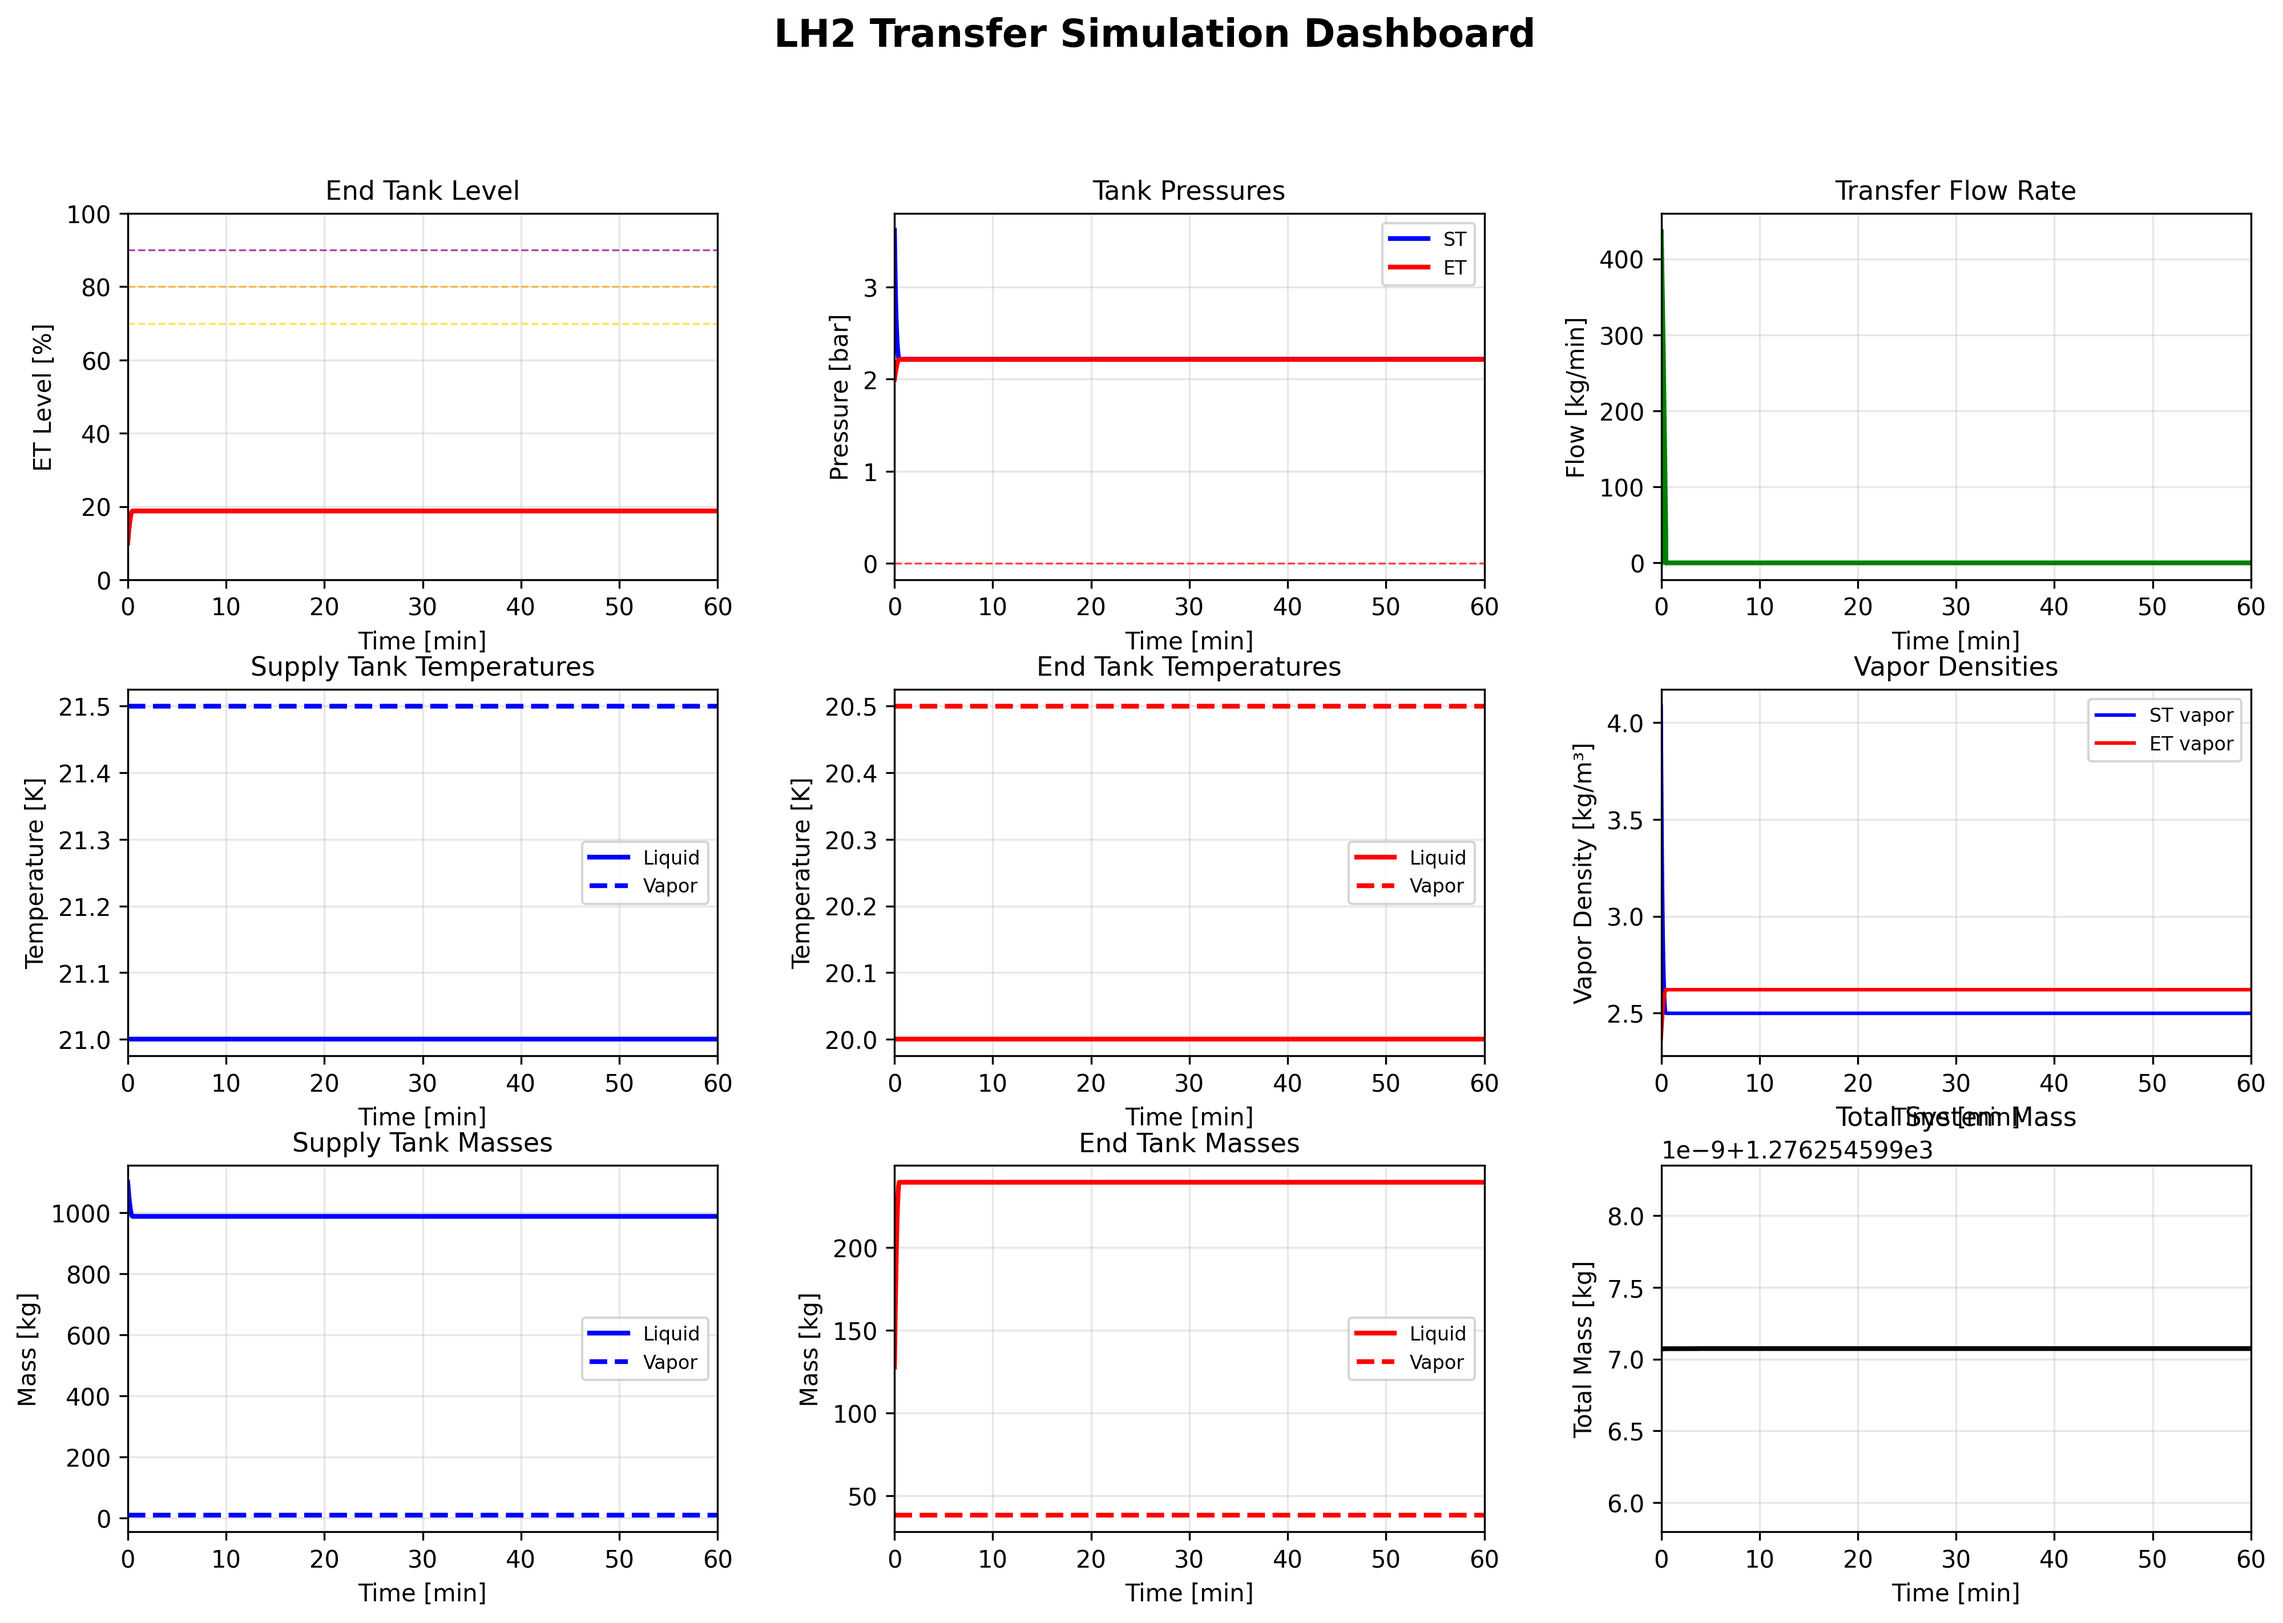
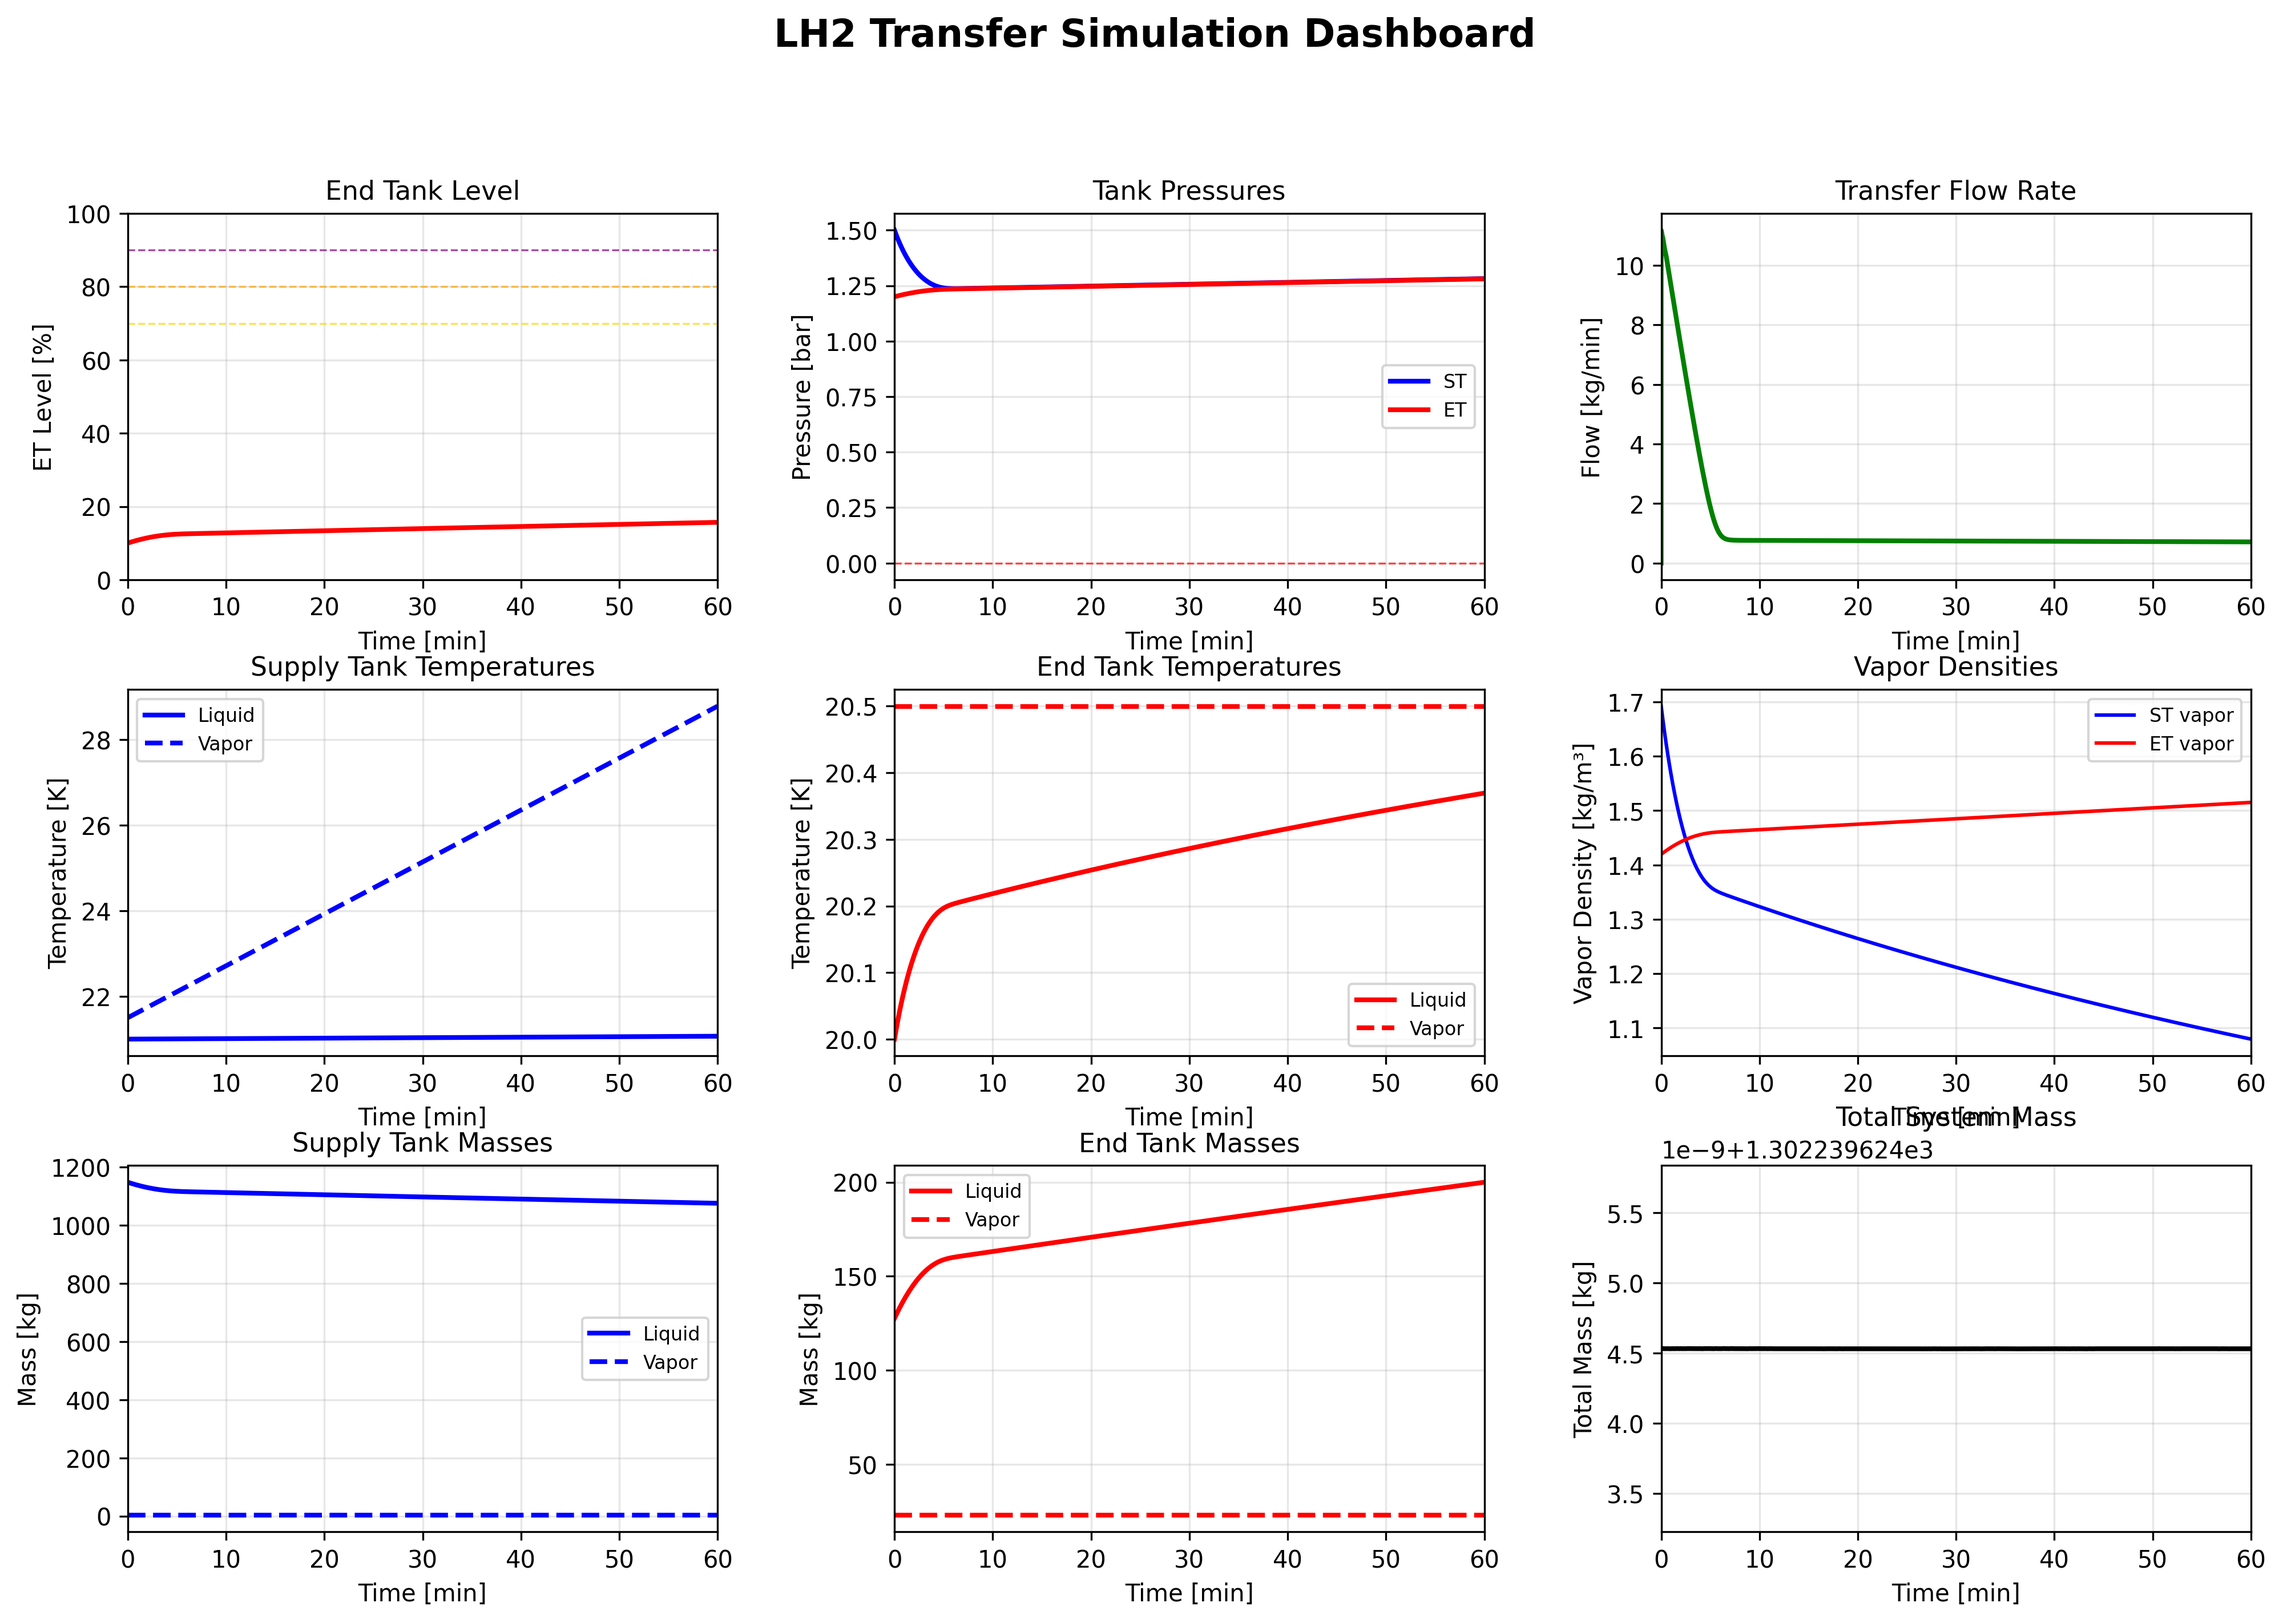
Fix AttributeError and simulation dynamics issues

diff --git a/lh2sim/simulation/__init__.py b/lh2sim/simulation/__init__.py
@@ -221,8 +221,8 @@ class Simulator:
         T_v_supply = self.config.supply_tank.initial_vapor_temp
         p_supply = self.config.supply_tank.initial_pressure
         
-        # Get densities at specified pressure
-        rho_L_supply = self.properties.density(T_L_supply, p_supply)
+        # Get densities - use constant values for consistency with derivatives
+        rho_L_supply = self.config.physics.rho_liquid
         # For vapor, use ideal gas law to be consistent with derivative calculation
         rho_v_supply = p_supply / (self.config.physics.R_vapor * T_v_supply)
         
@@ -247,8 +247,8 @@ class Simulator:
         T_v_receiver = self.config.receiver_tank.initial_vapor_temp
         p_receiver = self.config.receiver_tank.initial_pressure
         
-        # Get densities at specified pressure
-        rho_L_receiver = self.properties.density(T_L_receiver, p_receiver)
+        # Get densities - use constant values for consistency
+        rho_L_receiver = self.config.physics.rho_liquid
         # For vapor, use ideal gas law to be consistent
         rho_v_receiver = p_receiver / (self.config.physics.R_vapor * T_v_receiver)
         
@@ -302,9 +302,17 @@ class Simulator:
         V_L_supply = state.m_L_supply / self.config.physics.rho_liquid if state.m_L_supply > 0 else 0
         V_v_supply = V_supply - V_L_supply
         
-        # Approximate temperatures from internal energies (simplified)
-        T_L_supply = self.config.supply_tank.initial_liquid_temp
-        T_v_supply = self.config.supply_tank.initial_vapor_temp
+        # Approximate temperatures from internal energies
+        # T = U / (m * c_p) for simplified energy balance
+        if state.m_L_supply > 1e-6:
+            T_L_supply = state.U_L_supply / (state.m_L_supply * self.config.physics.c_liquid)
+        else:
+            T_L_supply = self.config.supply_tank.initial_liquid_temp
+            
+        if state.m_v_supply > 1e-6:
+            T_v_supply = state.U_v_supply / (state.m_v_supply * self.config.physics.c_v_vapor)
+        else:
+            T_v_supply = self.config.supply_tank.initial_vapor_temp
         
         # Approximate pressures (simplified - use ideal gas for vapor)
         if V_v_supply > 1e-6:
@@ -317,8 +325,15 @@ class Simulator:
         V_L_receiver = state.m_L_receiver / self.config.physics.rho_liquid if state.m_L_receiver > 0 else 0
         V_v_receiver = V_receiver - V_L_receiver
         
-        T_L_receiver = self.config.receiver_tank.initial_liquid_temp
-        T_v_receiver = self.config.receiver_tank.initial_vapor_temp
+        if state.m_L_receiver > 1e-6:
+            T_L_receiver = state.U_L_receiver / (state.m_L_receiver * self.config.physics.c_liquid)
+        else:
+            T_L_receiver = self.config.receiver_tank.initial_liquid_temp
+            
+        if state.m_v_receiver > 1e-6:
+            T_v_receiver = state.U_v_receiver / (state.m_v_receiver * self.config.physics.c_v_vapor)
+        else:
+            T_v_receiver = self.config.receiver_tank.initial_vapor_temp
         
         if V_v_receiver > 1e-6:
             p_receiver = state.m_v_receiver * self.config.physics.R_vapor * T_v_receiver / V_v_receiver
@@ -376,12 +391,17 @@ class Simulator:
         dm_L_receiver_dt = mdot_transfer  # Gains liquid
         dm_v_receiver_dt = 0.0  # Simplified - no phase change
         
-        # Energy balance derivatives (simplified - using specific energy)
+        # Energy balance derivatives with heat leaks
+        # Transfer term: specific internal energy of liquid being transferred
         u_transfer = self.config.physics.c_liquid * T_L_supply
-        dU_L_supply_dt = -mdot_transfer * u_transfer
-        dU_v_supply_dt = 0.0
-        dU_L_receiver_dt = mdot_transfer * u_transfer
-        dU_v_receiver_dt = 0.0
+        
+        # Supply tank energy balance
+        dU_L_supply_dt = -mdot_transfer * u_transfer + self.config.supply_tank.heat_leak_liquid
+        dU_v_supply_dt = self.config.supply_tank.heat_leak_vapor
+        
+        # Receiver tank energy balance
+        dU_L_receiver_dt = mdot_transfer * u_transfer + self.config.receiver_tank.heat_leak_liquid
+        dU_v_receiver_dt = self.config.receiver_tank.heat_leak_vapor
         
         # Return derivatives
         return np.array([
@@ -485,11 +505,34 @@ class Simulator:
         V_L_ET = result.m_L_ET / self.config.physics.rho_liquid
         V_v_ET = V_receiver - V_L_ET
         
-        # Simplified temperatures (constant for this version)
-        result.T_L_ST = np.full(n_points, self.config.supply_tank.initial_liquid_temp)
-        result.T_v_ST = np.full(n_points, self.config.supply_tank.initial_vapor_temp)
-        result.T_L_ET = np.full(n_points, self.config.receiver_tank.initial_liquid_temp)
-        result.T_v_ET = np.full(n_points, self.config.receiver_tank.initial_vapor_temp)
+        # Extract internal energy time series
+        U_L_ST = result.states[4, :]
+        U_v_ST = result.states[5, :]
+        U_L_ET = result.states[6, :]
+        U_v_ET = result.states[7, :]
+        
+        # Compute temperatures from internal energies
+        # T = U / (m * c_p)
+        result.T_L_ST = np.where(
+            result.m_L_ST > 1e-6,
+            U_L_ST / (result.m_L_ST * self.config.physics.c_liquid),
+            self.config.supply_tank.initial_liquid_temp
+        )
+        result.T_v_ST = np.where(
+            result.m_v_ST > 1e-6,
+            U_v_ST / (result.m_v_ST * self.config.physics.c_v_vapor),
+            self.config.supply_tank.initial_vapor_temp
+        )
+        result.T_L_ET = np.where(
+            result.m_L_ET > 1e-6,
+            U_L_ET / (result.m_L_ET * self.config.physics.c_liquid),
+            self.config.receiver_tank.initial_liquid_temp
+        )
+        result.T_v_ET = np.where(
+            result.m_v_ET > 1e-6,
+            U_v_ET / (result.m_v_ET * self.config.physics.c_v_vapor),
+            self.config.receiver_tank.initial_vapor_temp
+        )
         
         # Compute pressures using ideal gas
         R_vapor = self.config.physics.R_vapor

diff --git a/lh2sim/parameters/__init__.py b/lh2sim/parameters/__init__.py
@@ -147,7 +147,10 @@ class TransferParameters:
         pipe_diameter: Transfer line diameter [m]
         pipe_roughness: Pipe wall roughness [m]
         vaporizer_area: Vaporizer valve effective area [m²] (for pressure-driven)
-        pump_flow_rate: Pump volumetric flow rate [m³/s] (for pump-driven)
+        pump_flow_rate: Pump volumetric flow rate [m³/s] (for pump-driven, base rate)
+        pump_flow_slow: Pump mass flow rate for slow fill [kg/s] (for pump-driven)
+        pump_flow_fast: Pump mass flow rate for fast fill [kg/s] (for pump-driven)
+        pump_flow_topping: Pump mass flow rate for topping [kg/s] (for pump-driven)
         pump_efficiency: Pump efficiency [-] (for pump-driven)
         
         # Control thresholds
@@ -169,7 +172,10 @@ class TransferParameters:
     
     # Mode-specific parameters
     vaporizer_area: float = 0.0  # m² (only for pressure-driven)
-    pump_flow_rate: float = 0.0  # m³/s (only for pump-driven)
+    pump_flow_rate: float = 0.0  # m³/s (only for pump-driven, base rate)
+    pump_flow_slow: float = 0.0  # kg/s (pump-driven slow fill rate)
+    pump_flow_fast: float = 0.0  # kg/s (pump-driven fast fill rate)
+    pump_flow_topping: float = 0.0  # kg/s (pump-driven topping rate)
     pump_efficiency: float = 0.8  # [-] (only for pump-driven)
     
     # Control thresholds (as fractions of receiver tank height)
@@ -194,8 +200,9 @@ class TransferParameters:
         
         if self.mode == "pressure_driven" and self.vaporizer_area <= 0:
             raise ValueError("Pressure-driven mode requires positive vaporizer area")
-        if self.mode == "pump_driven" and self.pump_flow_rate <= 0:
-            raise ValueError("Pump-driven mode requires positive pump flow rate")
+        if self.mode == "pump_driven":
+            if self.pump_flow_rate <= 0 and (self.pump_flow_slow <= 0 or self.pump_flow_fast <= 0):
+                raise ValueError("Pump-driven mode requires positive pump flow rate(s)")
         
         # Validate thresholds
         if not (0 < self.slow_fill_threshold < self.fast_fill_threshold < self.topping_fill_threshold < 1):
@@ -264,7 +271,7 @@ def create_trailer_to_dewar_scenario() -> ScenarioConfig:
         volume=18.0,  # m³
         radius=1.0,  # m
         length_or_height=18.0 / (np.pi * 1.0**2),  # L = V/A
-        initial_pressure=5.0 * bar_to_pa,  # Higher pressure for transfer
+        initial_pressure=1.5 * bar_to_pa,  # Closer to saturation pressure
         initial_liquid_temp=21.0,  # K
         initial_vapor_temp=21.5,  # K (slightly warmer)
         initial_fill_fraction=0.9,
@@ -281,7 +288,7 @@ def create_trailer_to_dewar_scenario() -> ScenarioConfig:
         volume=18.0,  # m³
         radius=1.0,  # m
         length_or_height=18.0 / (np.pi * 1.0**2),  # H = V/A
-        initial_pressure=2.0 * bar_to_pa,  # Lower pressure to drive flow
+        initial_pressure=1.2 * bar_to_pa,  # Closer to supply pressure
         initial_liquid_temp=20.0,  # K (slightly colder)
         initial_vapor_temp=20.5,  # K
         initial_fill_fraction=0.1,  # Start nearly empty
@@ -299,8 +306,8 @@ def create_trailer_to_dewar_scenario() -> ScenarioConfig:
     # Transfer parameters (pressure-driven)
     transfer = TransferParameters(
         mode="pressure_driven",
-        transfer_valve_area=0.002,  # m²
-        vaporizer_area=0.0005,  # m²
+        transfer_valve_area=0.0001,  # m² (reduced for realistic flow)
+        vaporizer_area=0.00005,  # m² (reduced proportionally)
         pipe_length=10.0,  # m
         pipe_diameter=0.05,  # m
     )
@@ -334,11 +341,17 @@ def create_pump_driven_scenario() -> ScenarioConfig:
     config.name = "Trailer-to-Dewar (Pump-Driven)"
     config.description = "Pump-driven transfer from horizontal trailer to vertical dewar"
     
-    # Update transfer parameters
+    # Update transfer parameters with regime-specific flow rates
+    # Typical LH2 transfer: 100-1000 kg/hr depending on regime
+    rho_liquid = config.physics.rho_liquid  # ~70.9 kg/m³
+    
     config.transfer = TransferParameters(
         mode="pump_driven",
-        transfer_valve_area=0.002,  # m²
-        pump_flow_rate=0.005,  # m³/s (~18 m³/hr)
+        transfer_valve_area=0.0001,  # m² (not used in pump mode but required)
+        pump_flow_rate=0.001,  # m³/s base rate
+        pump_flow_slow=rho_liquid * 0.0005,  # kg/s (~35 kg/s = ~127 kg/hr)
+        pump_flow_fast=rho_liquid * 0.002,  # kg/s (~142 kg/s = ~511 kg/hr)
+        pump_flow_topping=rho_liquid * 0.0003,  # kg/s (~21 kg/s = ~76 kg/hr)
         pump_efficiency=0.8,
         pipe_length=10.0,  # m
         pipe_diameter=0.05,  # m

diff --git a/examples/complete_simulation.py b/examples/complete_simulation.py
@@ -177,8 +177,9 @@ def run_pump_driven_example():
     print(f"    - Liquid mass: {m_L_init_ET:.1f} kg")
     print(f"    - Height: {config.receiver_tank.length_or_height:.1f} m")
     print(f"  Transfer Mode: Pump-driven")
-    print(f"    - Fast fill rate: {config.transfer.pump_flow_fast*60:.1f} kg/min")
-    print(f"    - Topping rate: {config.transfer.pump_flow_topping*60:.1f} kg/min")
+    print(f"    - Slow fill rate: {config.transfer.pump_flow_slow*3600:.1f} kg/hr")
+    print(f"    - Fast fill rate: {config.transfer.pump_flow_fast*3600:.1f} kg/hr")
+    print(f"    - Topping rate: {config.transfer.pump_flow_topping*3600:.1f} kg/hr")
     
     # Run simulation
     print("\nRunning simulation...")
